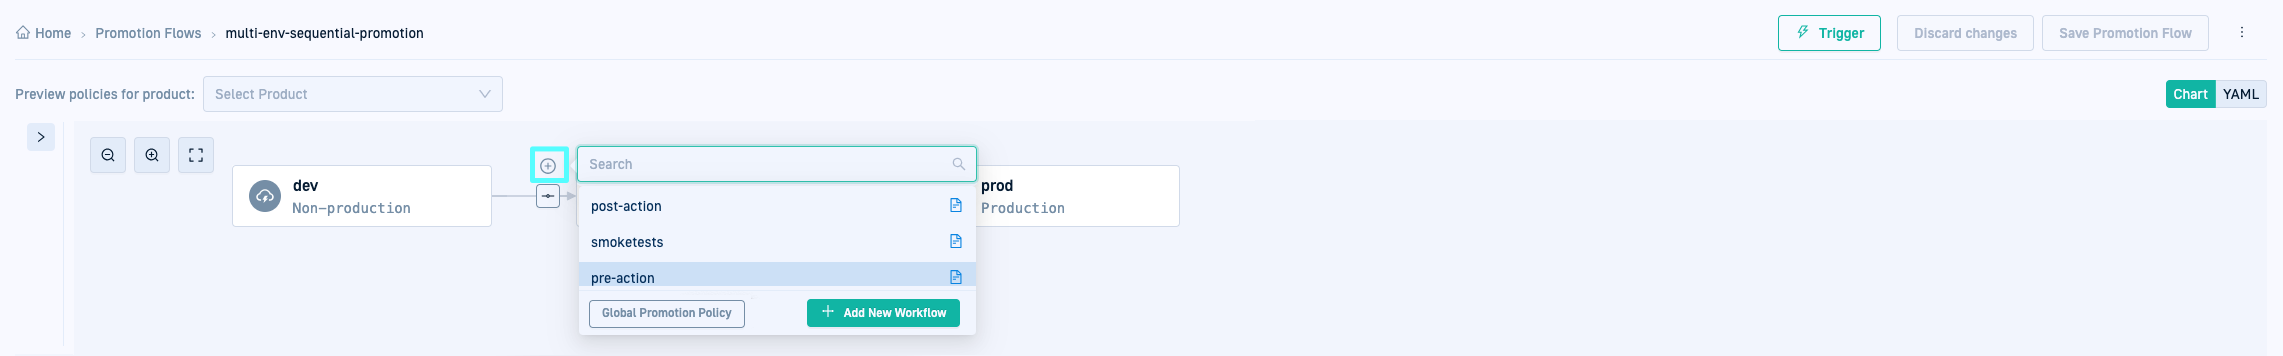
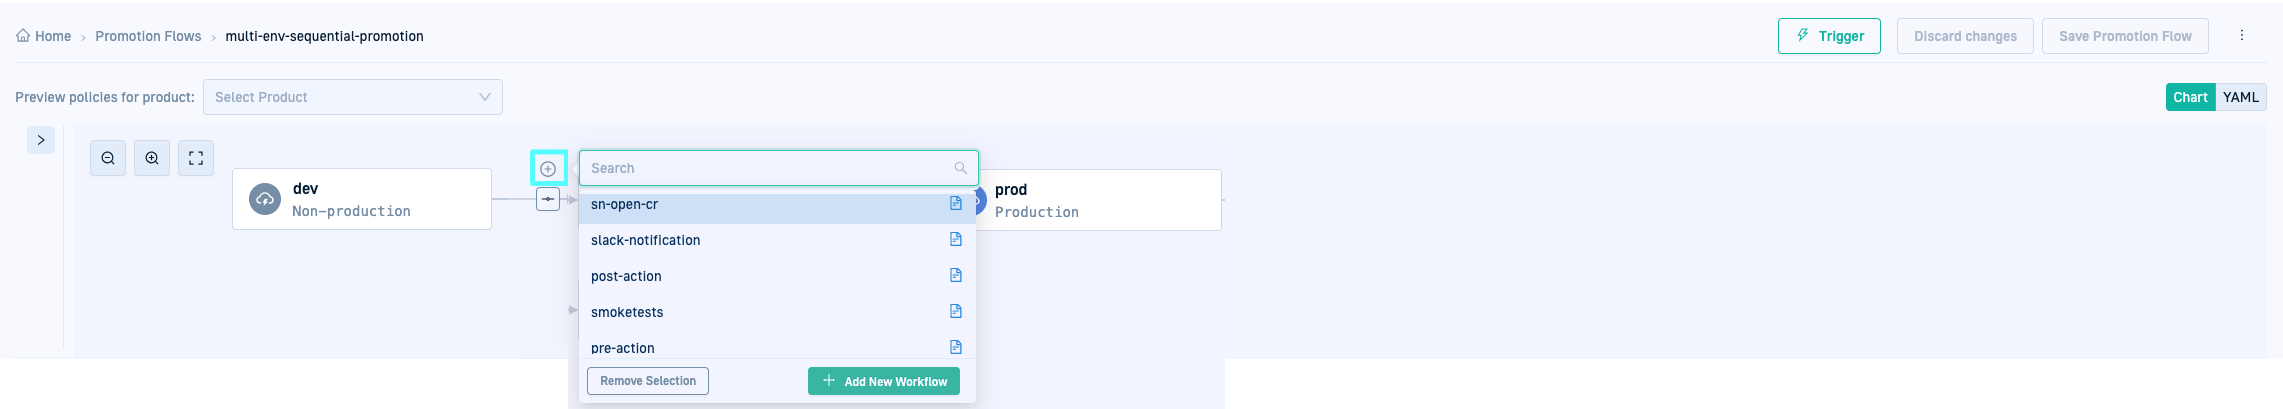
Update promotion workflow quick start

diff --git a/_docs/gitops-quick-start/quick-start-promotion-workflow.md b/_docs/gitops-quick-start/quick-start-promotion-workflow.md
@@ -6,30 +6,32 @@ toc: true
 ---
 
 ## Simple Promotion Workflow quick start
-In this quick start guide, we'll guide you through creating a Promotion Workflow in Codefresh.  
+In this quick start, we'll guide you through creating a Promotion Workflow in Codefresh.  
 
-Promotion Workflows are Argo WorkflowTemplates that allow you to automate tasks such as notifications, validations, or additional deployments during the promotion process. They can be used in Promotion Flows to automate tasks before or after promotion.
+Promotion Workflows are Argo Workflow Templates that allow you to automate tasks such as notifications, validations, or additional deployments during the promotion process. They can be used in Promotion Flows to automate tasks before or after promotion.
 For detailed information, see [Configure Promotion Workflows]({{site.baseurl}}/docs/promotions/promotion-workflow/).
 
 This quick start includes examples of two Promotion Workflows:
-* Example 1: Create Promotion Workflow for Slack notifications. The Workflow runs a container from Codefresh’s Argo Hub, which posts a message to Slack. 
-* Example 2: Open a Service Now Change Request
+* Example 1: Promotion Workflow for Slack notifications
+* Example 2: Promotion Workflow to open a ServiceNow Change Request
 
 
 
 
 ## Requirements
 * [GitOps Runtime]({{site.baseurl}}/docs/gitops-quick-start/runtime/)
-* [Git Source]({{site.baseurl}}/docs/gitops-quick-start/create-git-source/) to store application manifests.
-* [Environments]({{site.baseurl}}/docs/gitops-quick-start/quick-start-gitops-environments/)
+* [Git Source]({{site.baseurl}}/docs/gitops-quick-start/create-git-source/) to store application manifests
 * [Products and applications]({{site.baseurl}}/docs/gitops-quick-start/quick-start-gitops-environments/)
+* [Environments]({{site.baseurl}}/docs/gitops-quick-start/quick-start-gitops-environments/)
+
 <!---* [Shared Configuration Repository]({{site.baseurl}}/docs/installation/gitops/shared-configuration)
   this is where you promotion workflow will be stored (in the `resources/control-planes/promotion-workflows` folder) -->
 
-## Example 1: Create Promotion Workflow for Slack notifications to be used as a post-action
+## Example 1: Create Promotion Workflow to send Slack notifications
 
-Creating a Promotion Workflow is as simple as creating an [Argo WorkflowTemplate](https://argo-workflows.readthedocs.io/en/latest/workflow-templates/){:target="\_blank"}.
-You can do so directly from the UI.
+This example creates a Promotion Workflow that sends Slack notifications. The Workflow runs a container from Codefresh’s Argo Hub, which posts a message to Slack. 
+
+Creating a Promotion Workflow is as simple as creating an [Argo WorkflowTemplate](https://argo-workflows.readthedocs.io/en/latest/workflow-templates/){:target="\_blank"}. You can do so directly from the UI.
 
 For simplification, we are using a hard coded version of an existing template from [our library](https://github.com/codefresh-io/argo-hub/tree/main/workflows/slack/versions/0.0.2){:target="\_blank"}.
 
@@ -39,7 +41,7 @@ For simplification, we are using a hard coded version of an existing template fr
 1. Define the following:
     1. **Name**: A unique name for the Promotion Workflow, `slack-notification`
     for the quick start.
-    1. **Description**: A meaningful comment on the purpose of the workflowTemplate, for example, `A template to send a Slack notification when a promotion ends` in our case.
+    1. **Description**: A meaningful comment on the purpose of the workflowTemplate, for example, `A template to send a Slack notification` in our case.
     1. **Resource Filename**: The name of the manifest file that will be saved in `resources/control-planes/promotion-workflows`
     folder in your Shared Configuration Repository. By default, this is
     identical to the Name of the Workflow. Leave as-is for the
@@ -59,7 +61,7 @@ For simplification, we are using a hard coded version of an existing template fr
 1. Click **Add**.
 1. For the quick start, select **Blank Skeleton File** as the Workflow Template,
    and click **Next**.
-1. In the YAML editor on the right, replace the `spec` in line 15 with the
+1. In the YAML editor on the right, replace the `spec` in line 13 with the
    following block:
    {% highlight yaml %}
     {% raw %}
@@ -82,7 +84,7 @@ For simplification, we are using a hard coded version of an existing template fr
               - name: SLACK_CHANNEL
                 value: 'name@domain.com'
               - name: SLACK_MESSAGE
-                value: 'Application `{{ workflow.parameters.APP_NAME }}` has been promoted'
+                value: 'Application `{{ workflow.parameters.APP_NAME }}` has been promoted' 
               - name: LOG_LEVEL
                 value: 'info'
               - name: SLACK_TOKEN
@@ -92,7 +94,8 @@ For simplification, we are using a hard coded version of an existing template fr
                     key: token          
 {% endraw %}
 {% endhighlight %}
-  where:  
+  where: 
+  * `SLACK_MESSAGE` is the message to display in the Slack notification. In the example, the message indicates that the application has been promoted.
   * `SLACK_CHANNEL` can either be the name of a Slack channel or the email of a user.
   * `slack-token` is the name of the secret holding your Slack Token, in the `token` key.
 
@@ -108,32 +111,49 @@ For simplification, we are using a hard coded version of an existing template fr
 	lightbox="true"
 	file="/images/quick-start/promotion-workflow/new-promotion-workflow.png"
 	url="/images/quick-start/promotion-workflow/new-promotion-workflow.png"
-	alt="Promotion workflow quick start: New promotion workflow"
-	caption="Promotion workflow quick start: New promotion workflow"
+	alt="Promotion Workflow quick start: New Promotion Workflow in list"
+	caption="Promotion Workflow quick start: New Promotion Workflow in list"
  max-width="50%"
 %}
 
+##### Example of Slack notification sent with this Promotion Workflow
+
+This is an example of the Slack notification sent before promotion starts in an environment.  
+
+{% include
+	image.html
+	lightbox="true"
+	file="/images/quick-start/promotion-workflow/slack-message.png"
+	url="/images/quick-start/promotion-workflow/slack-message.png"
+	alt="Promotion Workflow quick start: Slack notification example"
+	caption="Promotion Workflow quick start: Slack notification example"
+ max-width="80%"
+%}
+
+## Example 2: Open a ServiceNow change request
+This example creates a Promotion Workflow that opens a ServiceNow change request. The Promotion Workflow uses the existing [ServiceNow Workflow Template](https://github.com/codefresh-io/argo-hub/tree/main/workflows/servicenow/versions/1.3.1){:target="\_blank"} from the Codefresh Argo Hub library.
 
 
-## Example 2: Open a Service Now Change Request as a pre-action
+### Step 1: Add a Git Source for the Argo Hub library
 
-For this next example, we will use the existing [servicenow workflowTemplate from our library](https://github.com/codefresh-io/argo-hub/tree/main/workflows/servicenow/versions/1.3.1).
+To use the ServiceNow Workflow Template, add a Git Source to your GitOps Runtime that points to the Argo Hub library.  
+See [Add a Git Source]({{site.baseurl}}/docs/gitops-quick-start/create-git-source/).
 
-So you will need to add a [Git Source]({{site.baseurl}}/docs/gitops-quick-start/create-git-source/) pointing to that library.
+* Configure the Git Source using the settings shown in the example below.
 
   {% include 
 	image.html 
 	lightbox="true" 
 	file="/images/quick-start/promotion-workflow/git-source.png" 
 	url="/images/quick-start/promotion-workflow/git-source.png" 
-	alt="Promotion workflow quick start: Argo hub git source" 
-	caption="Promotion workflow quick start: Argo hub git source"
+	alt="Promotion Workflow quick start: Git Source settings for Argo Hub library" 
+	caption="Promotion Workflow quick start: Git Source settings for Argo Hub library"
     max-width="50%" 
 %}
 
+### Step 2: Create Promotion Workflow with ServiceNow change request
+Create the Promotion Workflow with the ServiceNow change request. 
 
-
-##### Step-by-step
 1. In the Codefresh UI, from the sidebar, select **Promotion Workflows**, and click **Add Promotion Workflow**.
 1. Define the following:
     1. **Name**: A unique name for the Promotion Workflow, `sn-open-cr`
@@ -149,8 +169,8 @@ So you will need to add a [Git Source]({{site.baseurl}}/docs/gitops-quick-start/
 	lightbox="true" 
 	file="/images/quick-start/promotion-workflow/add-sn-open-wkf.png" 
 	url="/images/quick-start/promotion-workflow/add-sn-open-wkf.png" 
-	alt="Promotion workflow quick start: Create promotion workflow for ServiceNow" 
-	caption="Promotion workflow quick start: Create promotion workflow for ServiceNow"
+	alt="Promotion Workflow quick start: Example for ServiceNow" 
+	caption="Promotion Workflow quick start: Example for ServiceNow"
     max-width="50%" 
 %}
 
@@ -159,7 +179,7 @@ So you will need to add a [Git Source]({{site.baseurl}}/docs/gitops-quick-start/
 1. Click **Add**.
 1. For the quick start, select **Blank Skeleton File** as the Workflow Template,
    and click **Next**.
-1. In the YAML editor on the right, replace the `spec` in line 13 with the
+1. In the YAML editor on the right, replace the `spec` in line 15 with the
    following block:
    {% highlight yaml %}
   {% raw %}
@@ -203,7 +223,7 @@ So you will need to add a [Git Source]({{site.baseurl}}/docs/gitops-quick-start/
 {% endhighlight %}
 
 where:
-* `TOKEN` is the Codefresh CF API Key to allow Service Now to reach back to the Codefresh instance.
+* `TOKEN` is the Codefresh API Key to allow Service Now to reach back to the Codefresh instance.
 * `SN_AUTH` is the secret holding credentials to connect to the ServiceNow instance (`SN_INSTANCE`)
 * `CR_DATA` is the JSON payload to be able to open a Change Request.
 
@@ -213,33 +233,13 @@ where:
 1. Click **Commit** again.  
    After a few minutes, the new Promotion Workflow is displayed in the Promotion Workflows list.
 
-You can now use this Promotion Workflow as a pre-action to open a Change Request before proceeding with the deployment itself.
 
+## Using Promotion Workflows in Promotion Flows
+Once you create Promotion Workflows, you can use them in any Promotion Flow to automate key actions before or after promoting an environment.  
+These workflows help enforce policies, validate changes, and trigger external processes as part of the promotion lifecycle.
 
-  {% include 
-	image.html 
-	lightbox="true" 
-	file="/images/quick-start/promotion-workflow/sn-release.png" 
-	url="/images/quick-start/promotion-workflow/sn-release.png" 
-	alt="Promotion workflow quick start: Running a release with ServiceNow pre-action" 
-	caption="Promotion workflow quick start: Running a release with ServiceNow pre-action"
-    max-width="50%" 
-%}
+For example, you can configure the ServiceNow Promotion Workflow in example 2 as a Pre-Action Workflow in a Promotion Flow. The Workflow will then run before the changes are promoted to open a change request.
 
-
-
-## Using Promotion Workflows
-Once you create Promotion Workflows, you can use them in any Promotion Flow.
-
-{% include
-	image.html
-	lightbox="true"
-	file="/images/quick-start/promotion-workflow/slack-message.png"
-	url="/images/quick-start/promotion-workflow/slack-message.png"
-	alt="Promotion workflow quick start: New slack message"
-	caption="Promotion workflow quick start: New slack message"
- max-width="50%"
-%}
 
 ## What's next
 The next quick start will guide you through adding Promotion Workflows to each environment in a Promotion Flow, acting as gates for conditional promotions, allowing you to introduce more control and flexibility in your promotion processes.

diff --git a/_docs/gitops-quick-start/policy-multi-env-promotion.md b/_docs/gitops-quick-start/policy-multi-env-promotion.md
@@ -11,10 +11,11 @@ redirect_from:
 
 With a Promotion Flow you can [automate promotions across multiple environments]({{site.baseurl}}/docs/gitops-quick-start/multi-env-sequential-flow/). 
 
-This quick start explores how to enhance Promotion Flows by configuring conditions for each environment in the flow, ensuring that changes are promoted to environments only on meeting the specific requirements for the environment.
+This quick start explores how to enhance Promotion Flows by configuring conditions for each environment in the flow through Promotion Workflows.  
+Promotion Workflows define the conditions under which changes are promoted to the next environment. They automate testing, validation, and other required checks, establishing gates that control how changes are promoted between environments.
 
-You can automate and enforce gates throughout your promotion processes using Promotion Workflows. 
-Promotion Workflows are essentially Argo Workflows customized for promoting changes through your environments.  
+For this quick start, we'll use the same Promotion Workflows we created [Quick Start: Creating Promotion Workflows]({{site.baseurl}}/docs/gitops-quick-start/quick-start-promotion-workflow) within the Promotion Flow.
+ 
 For detailed information, see [Configuring Promotion Workflows]({{site.baseurl}}/docs/promotions/promotion-workflow/).
 
 ## Promotion Workflows in Promotion Flows
@@ -22,46 +23,41 @@ Promotion Workflows are designed to define the conditions under which changes ar
 
 You can create workflows tailored to the specific tasks required during a promotion and categorize them based on the stage of the promotion process in which they are executed, as Pre- and Post-Action Workflows.
 
-##### Pre-Action Workflow
-A Promotion Workflow that runs _before the promotion action is triggered_. These workflows can be used for tasks like smoke tests, unit tests, security scans, or any other validation that must pass before a change is promoted to the next environment.
-
-The Pre-Action Workflow plays a critical role in ensuring that changes meet all necessary requirements before being promoted to the next environment. It acts as the gatekeeper, validating changes and stopping the promotion if any tests or validations fail. 
-
+##### Pre-Action Workflows
+A Pre-Action Workflow runs _before the promotion action is triggered_. These workflows can be used for tasks like smoke tests, unit tests, security scans, or any other validation that must pass before a change is promoted to the next environment.
+If any validation in the Pre-Action Workflow fails, the promotion is blocked, ensuring that only approved changes proceed to the next environment.
+ 
+In this quick start, we'll use the ServiceNow Promotion Workflow to open a change request before the promotion starts.
 
 ##### Post-Action Workflows
-A Promotion Workflow that runs _after the promotion action has completed_. These workflows can be used for tasks like performance monitoring, database migrations, or notifications to inform stakeholders that the promotion is complete.
+A Post-Action Workflow runs _after the promotion action has completed_. These workflows can be used for tasks like performance monitoring, database migrations, or notifications to inform stakeholders that the promotion is complete.  
+Post-Action Workflows help ensure that promoted changes behave as expected in the new environment and allow teams to respond to any issues.
 
-The Post-Action Workflow allows you to monitor and verify the effects of the promotion after it has taken place. This workflow helps ensure the promoted changes behave as expected in the new environment.
-
-<!--- 
-## How to create Promotion Workflows
-
-TBD
--->
+In this quick start, we'll use the Slack notification Promotion Workflow to send a Slack notification when the promotion is complete. 
 
 
 ## Requirements
 
 * [GitOps Runtime]({{site.baseurl}}/docs/gitops-quick-start/runtime/)
 * [Git Source]({{site.baseurl}}/docs/gitops-quick-start/create-git-source/) to store application manifests
-* [Environments]({{site.baseurl}}/docs/gitops-quick-start/quick-start-gitops-environments/)  
-  For a Promotion Flow, you need at least three environments.
-  Here we use `dev`, `qa`, and `prod`.
 * [Products and applications]({{site.baseurl}}/docs/gitops-quick-start/create-app-ui/)  
   Each environment must have an application for the product.
   For example, `demo-trioapp-dev`, `demo-trioapp-qa`, and `demo-trioapp-prod`representing the development, testing, and production versions.
   The structure of the repos with the resources accessed by the applications must be consistent across all the three applications.   
   If it works for you, copy the corresponding subfolders in [demo-applications](https://github.com/codefresh-sandbox/codefresh-quickstart-demo/tree/main/demo-applications) with the resources. <!--- add a link to the repo? -->
-* [Promotion Workflows]({{site.baseurl}}/docs/promotions/promotion-workflow/#create-promotion-workflows)
+* [Environments]({{site.baseurl}}/docs/gitops-quick-start/quick-start-gitops-environments/)  
+  For a Promotion Flow, you need at least three environments.
+  Here we use `dev`, `qa`, and `prod`.
+* [Promotion Workflows]({{site.baseurl}}/docs/gitops-quick-start/quick-start-promotion-workflow/)
 
 ## Assign Pre- and Post-Action Workflows to environments in Promotion Flow
 To ensure each environment's specific requirements are met, assign Promotion Workflows to govern promotion behavior.  
-In this quick start, we’ll define the Promotion Workflows to govern promotion behavior for the `qa` and `prod` environments.
+In this quick start, we’ll select the Promotion Workflows to govern promotion behavior for the `qa` and `prod` environments.
 
 1. From the Promotion Flow list, select the Promotion Flow you created, `multi-env-sequential-promotion` for the quick start.
 1. In the Settings panel, update the **Version** to indicate changes in the flow, for example, `2.0`. 
 1. Assign the workflows by clicking the respective controls and selecting the Promotion Workflows and the Promotion Action from the list. 
-  The example below shows the Pre-Action Workflows available.
+  The examples below show the Pre-Action Workflows available, and the `qa` environment configured with the Pre- and Post-Action Workflows and the Promotion Action.
 
 {% include 
 image.html 
@@ -129,9 +125,6 @@ max-width="60%"
 
 
 ## What's next
-<!--- In the next quick start for promotions, we'll explore how to configure a Promotion Flow with parallel promotions, allowing changes to be promoted simultaneously across multiple environments.
-
-[Quick start: Advanced Promotion Flow: Parallel promotions across environments]({{site.baseurl}}/docs/gitops-quick-start/parallel-multi-env-promotion/) -->
 The final quick start on promotions will guide you through creating dependencies between environments to define the order for promotions.
 
 [Quick start: Advanced Promotion Flow with environment dependencies]({{site.baseurl}}/docs/gitops-quick-start/dependency-multi-env-promotion/)

diff --git a/_docs/gitops-quick-start/gitops-quick-start.md b/_docs/gitops-quick-start/gitops-quick-start.md
@@ -33,20 +33,15 @@ We’ve provided an example GitHub repository containing all the applications an
   Add a Git Source referencing a repository as a centralized location for storing application manifests.
 
 ## Creating GitOps entities for promotions
+* [Creating Products and applications]({{site.baseurl}}/docs/gitops-quick-start/create-app-ui/)   
+  Create Argo CD applications, the product to link them to, and configure their source repositories, manifests, and deployment paths.
+
 * [Creating environments]({{site.baseurl}}/docs/gitops-quick-start/quick-start-gitops-environments/)  
   Define and manage environments such as development and production, enabling structured application deployments across different stages.
 
-* [Creating applications]({{site.baseurl}}/docs/gitops-quick-start/create-app-ui/)   
-  Create Argo CD applications, the product to link them to, and configure their source repositories, manifests, and deployment paths.
+* [Creating Promotion Workflows]({{site.baseurl}}/docs/gitops-quick-start/quick-start-promotion-workflow/)   
+  Automate pre- and post-promotion actions during GitOps promotions in environments, ensuring quality, security, and compliance at each stage.
 
-<!---
-* [Creating products]({{site.baseurl}}/docs/gitops-quick-start/quick-start-product-create/)  
-  Organize related applications under a single product, for better context and control of deployments.
-
-
-
- * [Exploring the Product Dashboard for applications]({{site.baseurl}}/docs/gitops-quick-start/create-app-ui/)   
-  Add applications to your product and configure their source repositories, manifests, and deployment paths. -->
 
 ## Promoting applications
 

diff --git a/_docs/gitops-quick-start/quick-start-gitops-environments.md b/_docs/gitops-quick-start/quick-start-gitops-environments.md
@@ -90,6 +90,8 @@ At this point, as we haven't created any applications, all environments are empt
 %} 
 
 ## What's next
-You’re probably eager to dive into applications, and that's what we'll do in the next quick start. 
+Now that you've set up environments, we'll focus on another key entity in GitOps promotions—Promotion Workflows—which enhance and automate the promotion process. 
 
-[Quick start: Creating applications]({{site.baseurl}}/docs/gitops-quick-start/create-app-ui/)
+Promotion Workflows are used in automated promotions flows to enforce quality, security, and compliance requirements at each stage of the promotion.
+
+[Quick start: Creating Promotion Workflows]({{site.baseurl}}/docs/gitops-quick-start/quick-start-promotion-workflow/)
